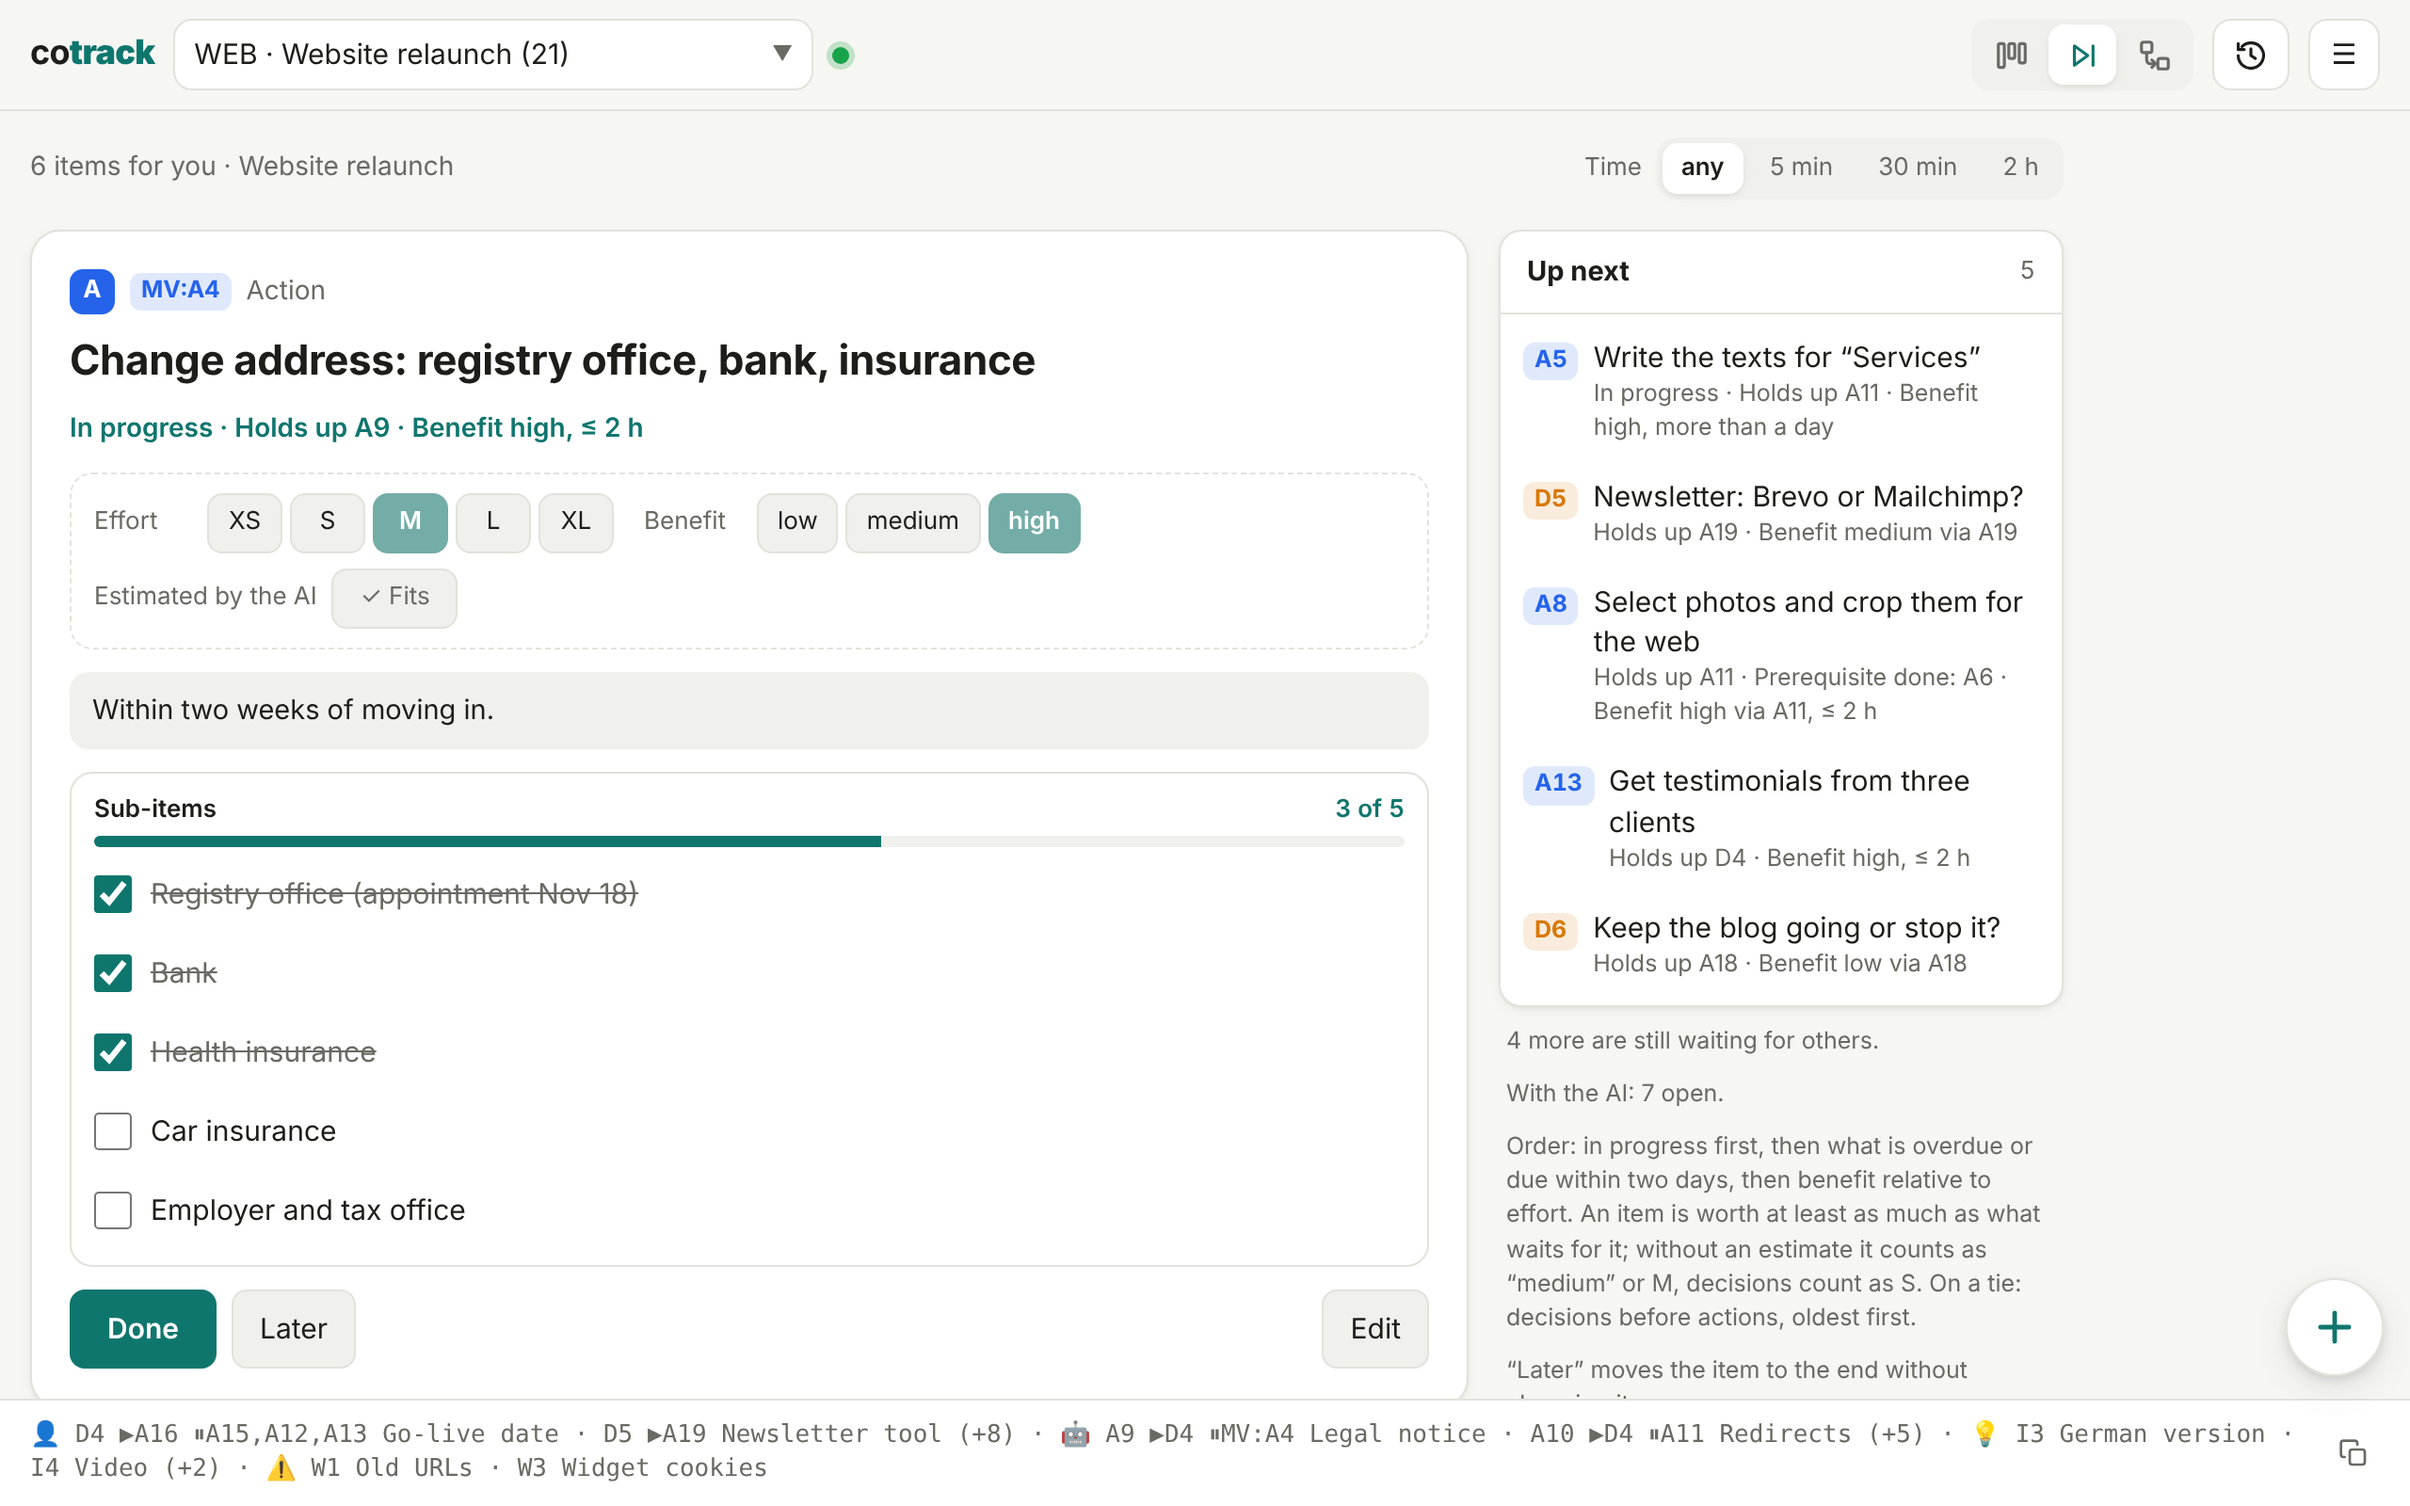
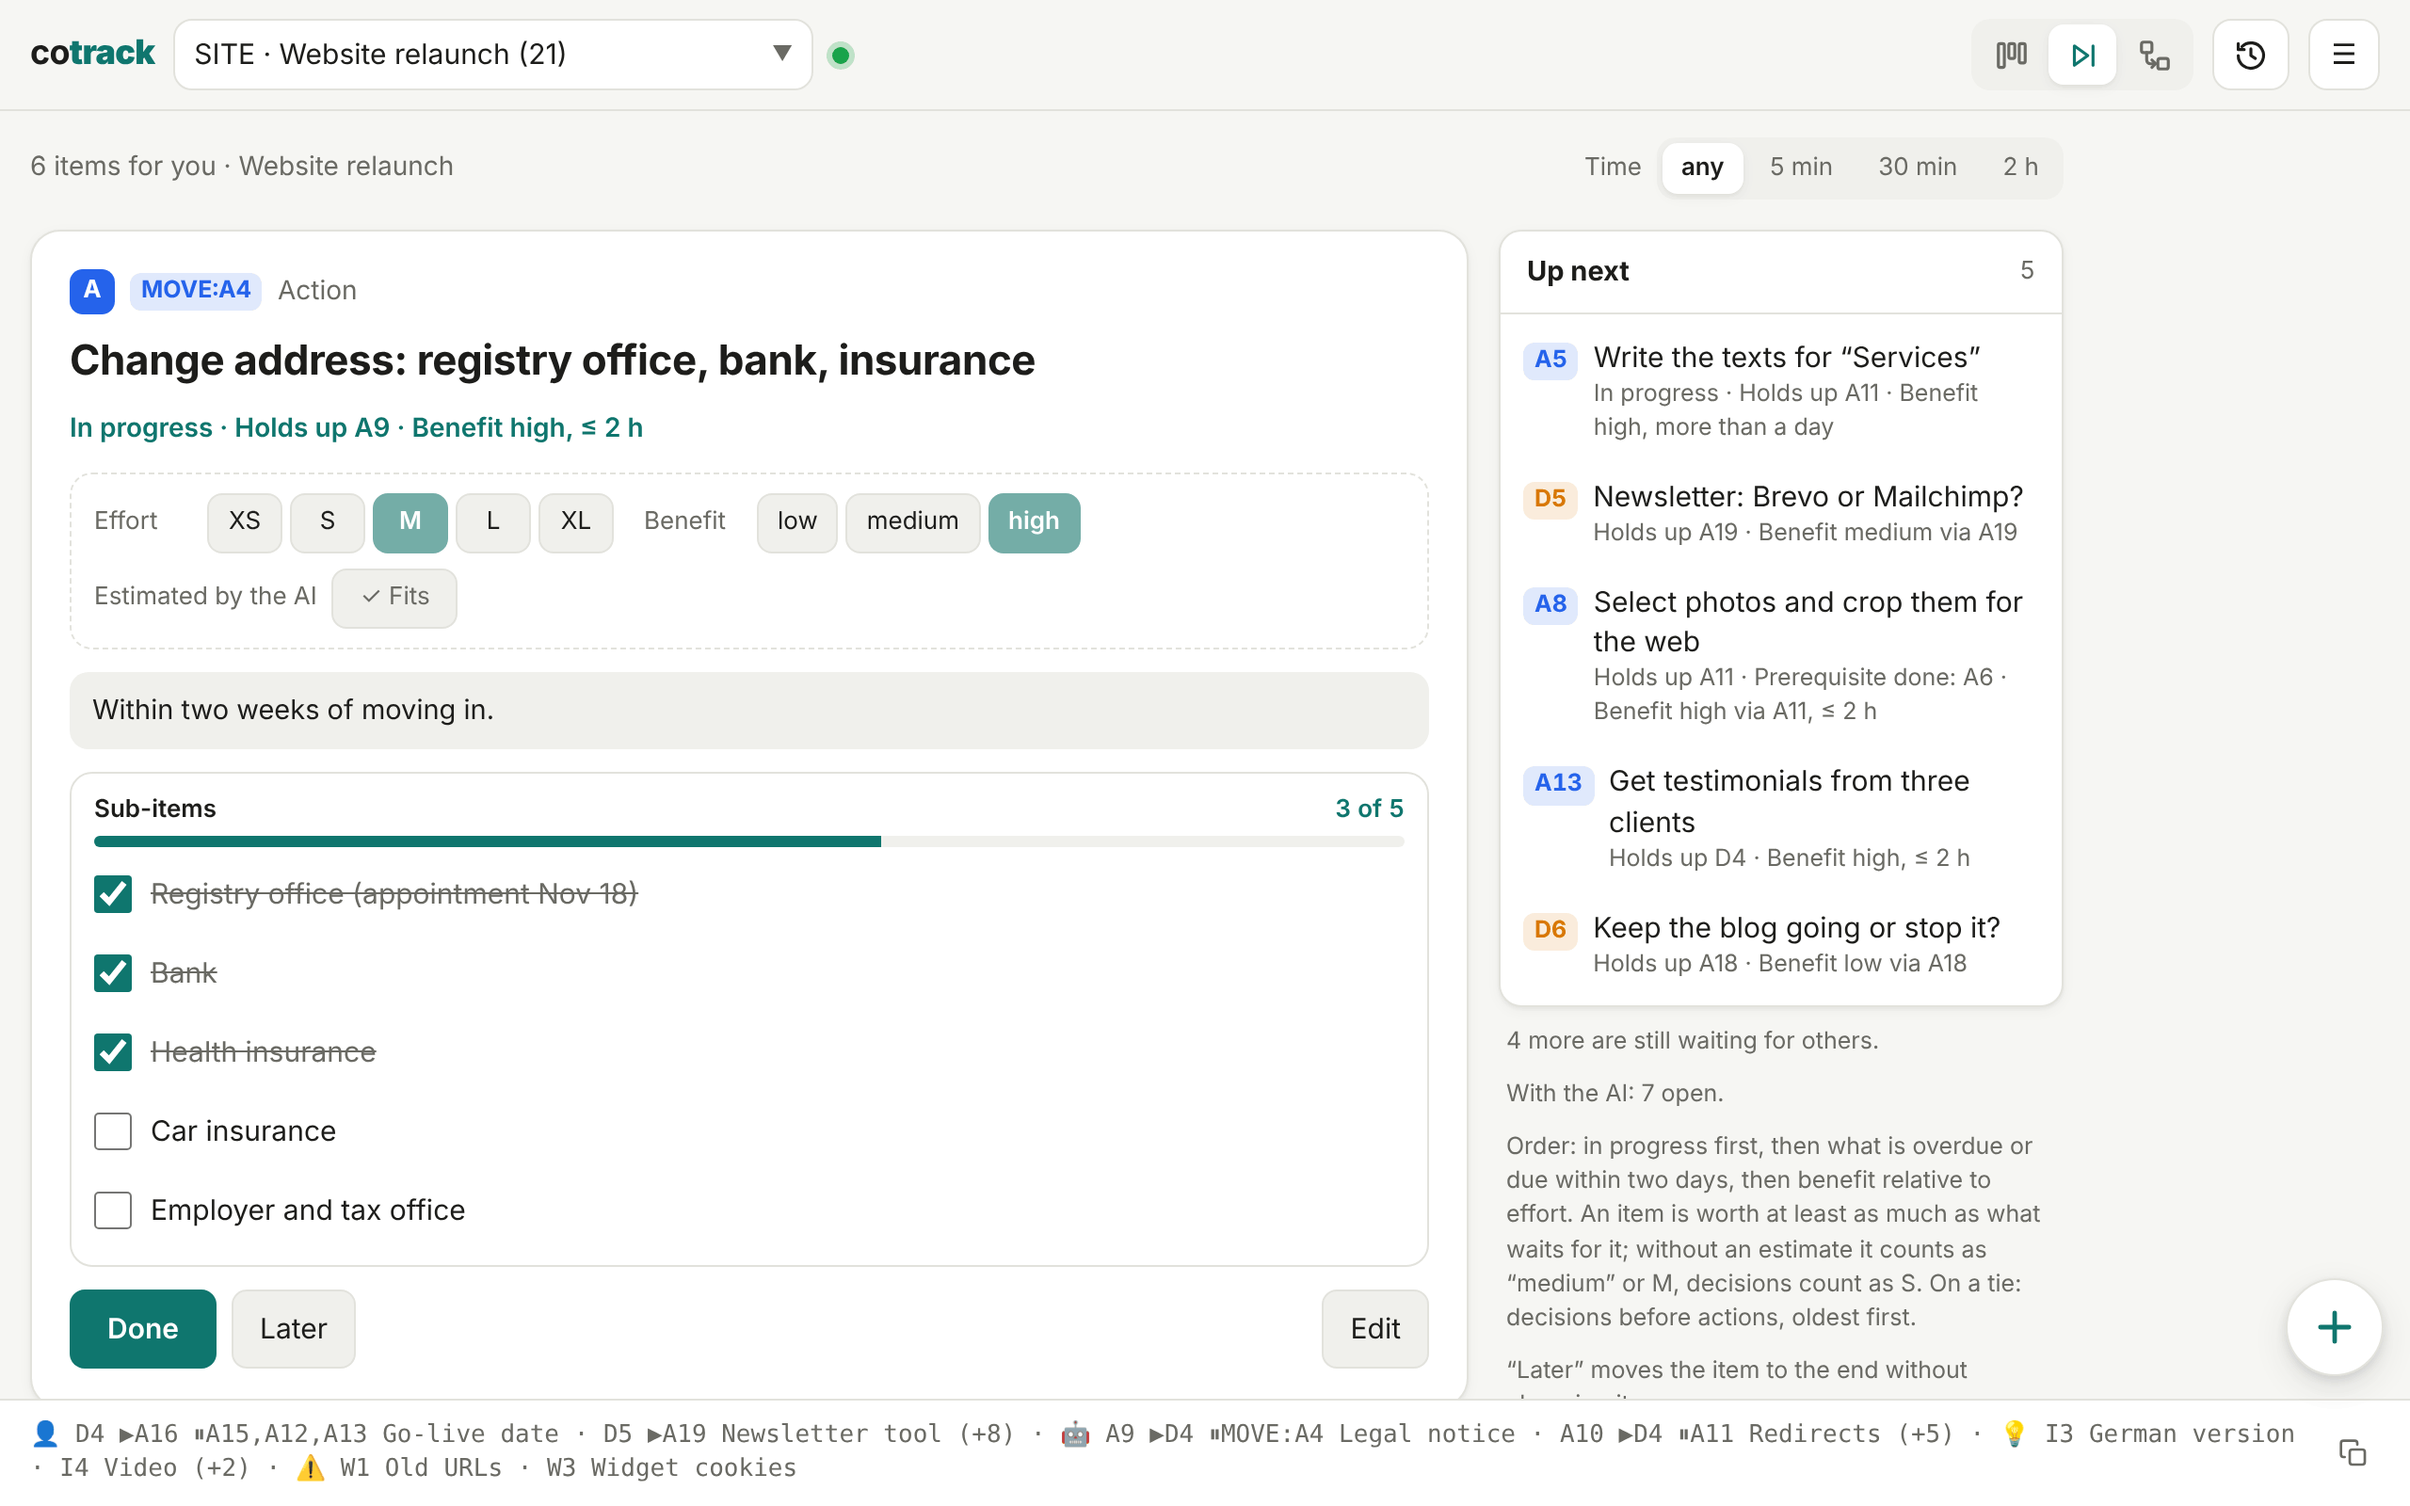
Demo: English projects too – guests see the ones of their language (A132)
The public demo held German projects only, while the English README shows English ones.
demo/data.en.mjs now has slugs "en-…" and codes of their own (SITE, MOVE, XMAS, AIW), so both
sets live side by side: demo/seed.mjs and the nightly reset write both (contentAll), and
guestGuard allows guests both (DEMO_SLUGS_ALL). The web app shows a guest only the projects of
its language (demoHidden/demoVisible in src/ui.html: English → "en-…", otherwise the rest) in
the project list, the board of all projects, the overview and quick access. Signed in with the
token, everything stays visible. English pictures renewed for the new codes.

Test: test/demo.test.mjs (both sets, unique codes, links only within one language).

Claude-Session: https://claude.ai/code/session_01HfCCPndABUr7rvtUyhtFAU

diff --git a/src/ui.html b/src/ui.html
@@ -1699,6 +1699,9 @@ async function api(path, { method = "GET", body } = {}) {
   return data;
 }
 const P = (slug) => "/projects/" + encodeURIComponent(slug);
+// Open demo (A132): a guest sees the demo projects of their language – "en-…" in English, all others in German.
+const demoHidden = (slug) => state.guest && String(slug || "").startsWith("en-") !== (LANG === "en");
+const demoVisible = (list) => (state.guest ? list.filter((x) => !demoHidden(x.project_slug ?? x.slug)) : list);
 
 /* A newer web app is live (A124). Reload when nothing is lost by it – no dialog open, nothing typed into a field that has the
    focus, no title waiting in quick add (it is no dialog and keeps its text without the focus), no unsent result in Next;
@@ -1849,7 +1852,7 @@ async function boot() {
 // notify: point out projects that appeared since the last load (e.g. created by an AI via MCP).
 async function loadProjects(notify) {
   const known = new Set(state.projects.map((p) => p.slug));
-  state.projects = sortProjects((await api("/projects")).projects);
+  state.projects = sortProjects(demoVisible((await api("/projects")).projects));
   const added = notify && loadProjects.done ? state.projects.filter((p) => !known.has(p.slug)) : [];
   loadProjects.done = true;
   if (state.project !== ALL && !state.projects.some((p) => p.slug === state.project)) {
@@ -1898,7 +1901,7 @@ async function refresh(force) {
   const { items } = await api(path + "?" + params);
   if (req !== state.reqId) return;
   const before = state.lastRefs;
-  state.items = items;
+  state.items = demoVisible(items);
   state.lastRefs = new Set(items.map((i) => i.project_slug + ":" + i.ref + ":" + i.updated_at));
   render(force ? null : before);
   renderFooter();
@@ -2991,7 +2994,7 @@ async function loadHome() {
   try {
     const [{ items }, { events }] = await Promise.all([api("/items?status=open"), api("/events?limit=300")]);
     if (req !== home.req || !state.home) return;
-    home.items = items; home.events = events;
+    home.items = demoVisible(items); home.events = demoVisible(events);
     renderHome();
   } catch (e) { if (e.message !== "unauthorized") toast(tr("error", e.message)); }
 }
@@ -4526,7 +4529,7 @@ async function openPal() {
   try {
     const { items } = await api("/items?status=all");
     if (req !== pal.req) return;
-    pal.items = items;
+    pal.items = demoVisible(items);
     if (d.open) renderPal();
   } catch {}
 }

diff --git a/src/worker.js b/src/worker.js
@@ -8,7 +8,8 @@ import UI_HTML from "./ui.html";
 import { pwaResponse } from "./pwa.js";
 import { handleMcp } from "./mcp.js";
 import { handleOAuth } from "./oauth.js";
-import { DEMO_SLUGS, seedStatements } from "../demo/data.mjs";
+import { seedStatements } from "../demo/data.mjs";
+import { DEMO_SLUGS_ALL as DEMO_SLUGS, contentAll } from "../demo/data.en.mjs"; // German and English (A132)
 
 const STATUSES = ["open", "doing", "blocked", "done", "dropped"];
 const OPEN = ["open", "doing", "blocked"];
@@ -236,7 +237,7 @@ export async function resetDemo(db) {
     `DELETE FROM projects WHERE slug IN ${inSnap}`,
     ...SNAP_TABLES.map((t) => `INSERT INTO ${t} (${cols[t]}) SELECT ${cols[t]} FROM demo_snap_${t}` + (t === "events" ? " ORDER BY id" : "")),
   ];
-  await db.batch(seedStatements(Date.now(), { afterPrologue: restore }).map((sql) => db.prepare(sql)));
+  await db.batch(seedStatements(Date.now(), { afterPrologue: restore, fill: contentAll }).map((sql) => db.prepare(sql)));
 }
 
 /* ------------------------------------------------------------------ auth */

diff --git a/demo/README.md b/demo/README.md
@@ -17,10 +17,13 @@ A separate cotrack instance with invented data, for showing the app without touc
   in again), drop these four tables; the next guest change or reset takes it afresh. A reset turns the demo back in time,
   so references created by guests are handed out again afterwards. Test it locally with
   `npx wrangler dev --env demo --test-scheduled` and `curl "http://localhost:8787/__scheduled?cron=41+2+*+*+*"`.
-- Content: four invented projects from `demo/data.mjs` (German) plus a copy of a real project (Patchwerk) taken from the
+- Content: four invented projects in German (`demo/data.mjs`) and the same four in English (`demo/data.en.mjs`, slugs
+  `en-…`, codes SITE, MOVE, XMAS, AIW – A132) plus a copy of a real project (Patchwerk) taken from the
   live database once. The seed covers what the views need: open/done/dropped items, a history of several weeks by you and
   the AI, dependency chains (also across projects, plus one deliberate cycle for "Auffällig"), sub-items, effort and benefit
   (estimated and confirmed), converted ideas, an item shown in two projects, due dates, blocked and reopened items.
+  A guest sees the projects of their browser language only (`demoHidden` in `src/ui.html`: English → `en-…`, otherwise the
+  rest, Patchwerk included); signed in with the token you see all of them.
 
 ## Update the code
 
@@ -67,5 +70,5 @@ When the event format in `src/worker.js` changes (`createItem`, `updateItem`, `c
 
 `node demo/screenshots.mjs` (or `… de` / `… en`) renews the clip and the screenshots in `docs/img/`: per language it starts
 `wrangler dev` on a temporary database, seeds the demo projects – German from `demo/data.mjs`, English from
-`demo/data.en.mjs` (the same timeline translated, only for the pictures) – takes the screenshots with Playwright and turns
+`demo/data.en.mjs` (the same timeline translated) – takes the screenshots with Playwright and turns
 the recorded clip into a GIF with ffmpeg. Nothing touches the demo or the live instance.

diff --git a/CLAUDE.md b/CLAUDE.md
@@ -9,9 +9,11 @@
   `cotrack-demo-db` (`[env.demo]`), data from `demo/data.mjs` (CLI: `demo/seed.mjs`) plus a copy of Patchwerk. Deployed with main by its own Workers Build (code + migrations,
   data stays); resetting the data: `demo/README.md`. Keep `demo/data.mjs` in step with the event format in `src/worker.js`.
   README pictures (`docs/img/`, A130): `node demo/screenshots.mjs` renews clip and screenshots in both languages from a
-  local instance with the demo projects (German: `demo/data.mjs`; English: `demo/data.en.mjs`, same timeline, only for the
-  pictures, built with the helpers `demo/data.mjs` exports) – rerun it after visible changes to the web app. Needs
-  Playwright and ffmpeg; never take pictures of the live instance.
+  local instance with the demo projects (German: `demo/data.mjs`; English: `demo/data.en.mjs`, same timeline, built with
+  the helpers `demo/data.mjs` exports) – rerun it after visible changes to the web app. Needs Playwright and ffmpeg; never
+  take pictures of the live instance. The demo holds both languages (A132): English projects are `en-…` with codes of their
+  own (`DEMO_SLUGS_ALL`, `contentAll`; seed and nightly reset write both), and the web app shows a guest only those of its
+  language (`demoHidden`/`demoVisible` in `src/ui.html`). Keep the two contents in step.
   Open demo (A114): `DEMO_OPEN = "1"` lets requests without any token in as guests (actor `user`, `guest: true` in `/api/me`);
   `guestGuard` allows writes only to items of `DEMO_SLUGS` and of the projects in the snapshot (`ensureSnapshot`, tables
   `demo_snap_*`: the copied Patchwerk), `GUEST_LIMIT` limits per address, the cron runs `resetDemo` nightly (snapshot + data).

diff --git a/README.de.md b/README.de.md
@@ -67,8 +67,8 @@ KI, dann Ideen und Warnungen:
   </tr>
 </table>
 
-Alle Bilder zeigen die erfundenen Projekte der [öffentlichen Demo](https://cotrack-demo.ilianos1.workers.dev). Dort darfst
-du nach Belieben ändern – jede Nacht wird alles zurückgesetzt.
+Alle Bilder zeigen die erfundenen Projekte der [öffentlichen Demo](https://cotrack-demo.ilianos1.workers.dev) – auf Deutsch
+oder Englisch, je nach Sprache deines Browsers. Dort darfst du nach Belieben ändern – jede Nacht wird alles zurückgesetzt.
 
 > Die Methodik hinter cotrack (Kategorien, Regeln, Bezug zu PRINCE2/RAID) ist in
 > [docs/METHODIK.md](docs/METHODIK.md) beschrieben, der passende Prompt für Claude und ChatGPT in

diff --git a/README.md b/README.md
@@ -67,8 +67,8 @@ warnings:
   </tr>
 </table>
 
-All pictures show the invented projects of the [public demo](https://cotrack-demo.ilianos1.workers.dev) (there in German,
-the web app follows your browser's language). Change whatever you like in it – it is reset every night.
+All pictures show the invented projects of the [public demo](https://cotrack-demo.ilianos1.workers.dev) – in English or
+German, whichever your browser speaks. Change whatever you like in it – it is reset every night.
 
 > The methodology behind cotrack (categories, rules, relation to PRINCE2/RAID) is described in
 > [docs/METHODOLOGY.md](docs/METHODOLOGY.md), the matching prompt for Claude and ChatGPT in
